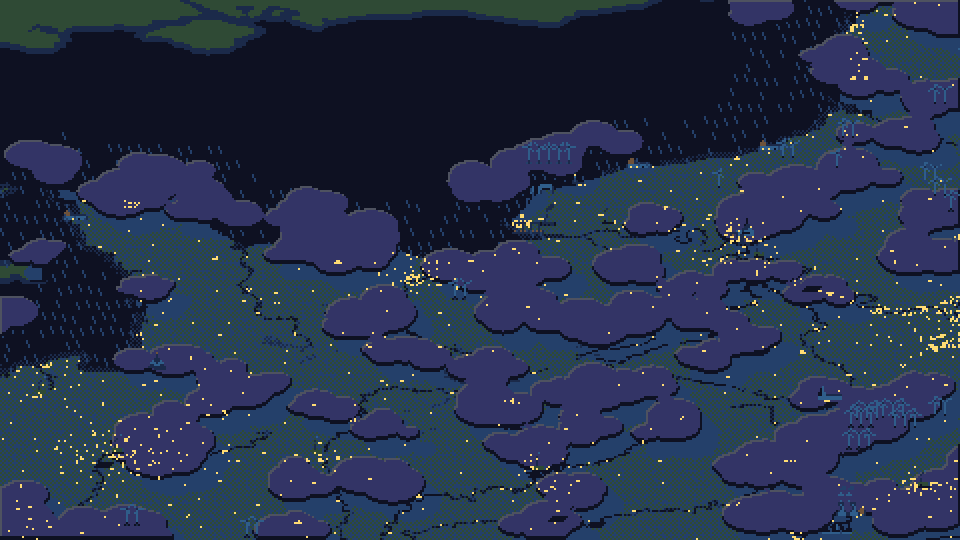
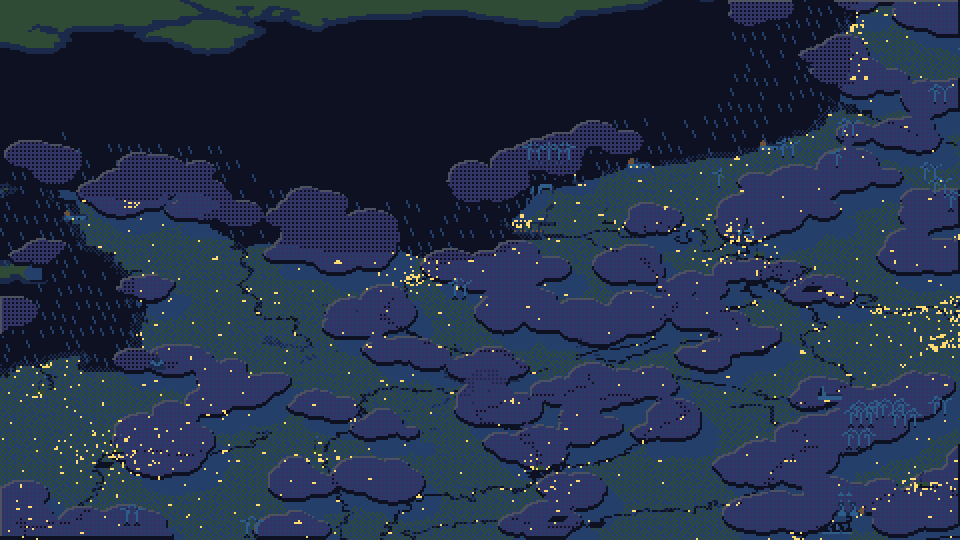
feat: let the map show through the clouds (B-018, D-065)
Guillaume's choice on Q-43: the modern theme's clouds are 75 % opaque at
their heart; a quarter of a pixel-art cloud's body is dithered away, on a
pattern anchored to the ground, its rims kept whole.

Claude-Session: https://claude.ai/code/session_015fegM7EV26tLwcVjTHHEZ1

diff --git a/src/render/pixel-theme.ts b/src/render/pixel-theme.ts
@@ -633,6 +633,9 @@ function cloudColours(group: WeatherGroup): {
   return { body: "snow", lit: "snow", shade: "cloud" };
 }
 
+/** Sixteenths of a cloud's body that let the map through (Q-43, D-065). */
+const CLOUD_SEE_THROUGH = 4;
+
 /**
  * The weather over a drawn frame (B-018, D-064), before what stands on the map is
  * drawn again on top: the clouds' shadows one palette step darker, an overcast or
@@ -681,7 +684,12 @@ function drawPixelWeather(frame: Frame, scene: Scene, grid: WeatherGrid, mask: C
       const cloud = index < 0 ? undefined : mask.clouds[index];
       // Nor does a cloud hide it.
       if (cloud === undefined || words[y * width + x] === PACKED.lamp) continue;
-      pen.put(x, y, cloudColours(cloud.group)[cloudPart(mask, x, y)]);
+      const part = cloudPart(mask, x, y);
+      // A quarter of a cloud's body lets the map through, on a pattern anchored to the
+      // ground; its rims stay whole, so its shape still reads.
+      if (part === "body" && (BAYER_4[(y + oy) & 3]?.[(x + ox) & 3] ?? 0) < CLOUD_SEE_THROUGH)
+        continue;
+      pen.put(x, y, cloudColours(cloud.group)[part]);
     }
 }
 

diff --git a/src/render/modern-weather.ts b/src/render/modern-weather.ts
@@ -30,6 +30,8 @@ const CLOUDS: Readonly<Record<"fair" | "rain" | "storm", readonly [Rgb, Rgb, Rgb
   ],
 };
 const SHADOW: Rgb = [22, 30, 46];
+/** How opaque a cloud is at its heart: the map shows through (Q-43, D-065). */
+const CLOUD_OPACITY = 0.75;
 const FOG_DAY: Rgb = [232, 234, 232];
 const FOG_NIGHT: Rgb = [72, 80, 98];
 const RAIN_DAY: Rgb = [215, 228, 242];
@@ -122,7 +124,7 @@ export function drawModernWeather(
       const shown = mixRgb(colour, [colour[0] * 0.26, colour[1] * 0.3, colour[2] * 0.44], night);
       const edge = Math.min(1, (mask.depth[i] ?? 0) * 6);
       const through = lamps === null ? 1 : 1 - lamps(x, y);
-      blend(data, i, shown, 0.92 * edge * edge * (3 - 2 * edge) * through);
+      blend(data, i, shown, CLOUD_OPACITY * edge * edge * (3 - 2 * edge) * through);
     }
 }
 

diff --git a/docs/DECISIONS.md b/docs/DECISIONS.md
@@ -1167,3 +1167,20 @@ Superseded by [D-015](#d-015--region-lookup-on-the-map-cells-and-22-km-around-fr
   (ARCHITECTURE § Sky, light and weather).
 - **Revisit if:** the clouds hide what the scene is for (the plants, the towns at
   night) on real screens, or a region's sky reads wrong against its reading.
+
+## D-065 — The clouds let the map show through
+
+- **Context:** on the first drawing of the weather (PR #53), Guillaume asked whether
+  the clouds should be a little translucent. A sheet compared the opaque clouds
+  with two levels, in both themes, by day and at night
+  (`/mnt/project-files/weather-mockups/v2-translucent/`, the project's files).
+- **Options (decision card, 2026-11-19, PRD Q-43):** light, the modern theme's
+  clouds 75 % opaque at their heart and a quarter of a pixel-art cloud's body
+  dithered away (recommended); marked, 60 % and half dithered away (the pixel art
+  then reads as a net); the modern theme alone; or opaque everywhere.
+- **Decision (Guillaume, 2026-11-19, decision card):** light: 75 % and a quarter
+  dithered.
+- **Why:** the map and the lit towns read through the clouds, which serves what
+  the scene is for, and the pixel art's dither stays a texture, not a net.
+- **Revisit if:** on real screens the clouds no longer read as clouds, or the
+  dither shimmers while the clouds drift.

diff --git a/docs/PRD.md b/docs/PRD.md
@@ -320,3 +320,4 @@ decisions they make are logged in [`DECISIONS.md`](DECISIONS.md).
 | Q-40 | Idle drift over budget after its plate (B-028): how to go on?   | Accept: it adds ~10 ms/s to the plants' 43; a CSS vignette changes the picture                       | Accept, close B-028 (Guillaume, 2026-11-18, decision card; D-061)     |
 | Q-41 | Where is the weather the map shows taken?                       | One point per region: its prefecture, or the viewer's rounded position; each region its own sky      | One per region (Guillaume, 2026-11-18, decision card; D-063)          |
 | Q-42 | Weather drawing: clouds with shadows (A), or shadows only (B)?  | A: reads at once as a sky, for about B's cost; the plants stay visible between the clouds            | A (Guillaume, 2026-11-19, decision card; D-064)                       |
+| Q-43 | Clouds: translucent, and how much?                              | Light: 75 % opaque (modern), a quarter dithered away (pixel art); the map and lit towns show through | Light (Guillaume, 2026-11-19, decision card; D-065)                   |

diff --git a/docs/ARCHITECTURE.md b/docs/ARCHITECTURE.md
@@ -573,7 +573,10 @@ indisponibles"); each plant's caption (B-020) says it too. A stale reading (over
     reading blowing to the nearest of 8 compass points, the mean rounded to 5
     km/h), so every cloud moves together, a cell a minute at most (the scene's
     time is taken by the minute, `CLOUD_STEP_MS`). The cloud's look by its group:
-    white when fair, grey for rain, drizzle and snow, dark for a storm.
+    white when fair, grey for rain, drizzle and snow, dark for a storm. A cloud
+    lets the map show through (Q-43, D-065): 75 % opaque at its heart in the
+    modern theme; in pixel art, a quarter of its body's pixels left out on a
+    pattern anchored to the ground, its rims whole.
   - **Shadow:** each cloud's shape, cast 3 to 10 pixels to the south-east (with the
     light from the north-west, § Art direction), darker by one palette step (pixel
     art) or a dark blend (modern). An overcast sky (cover over 70 %) dims the land a
